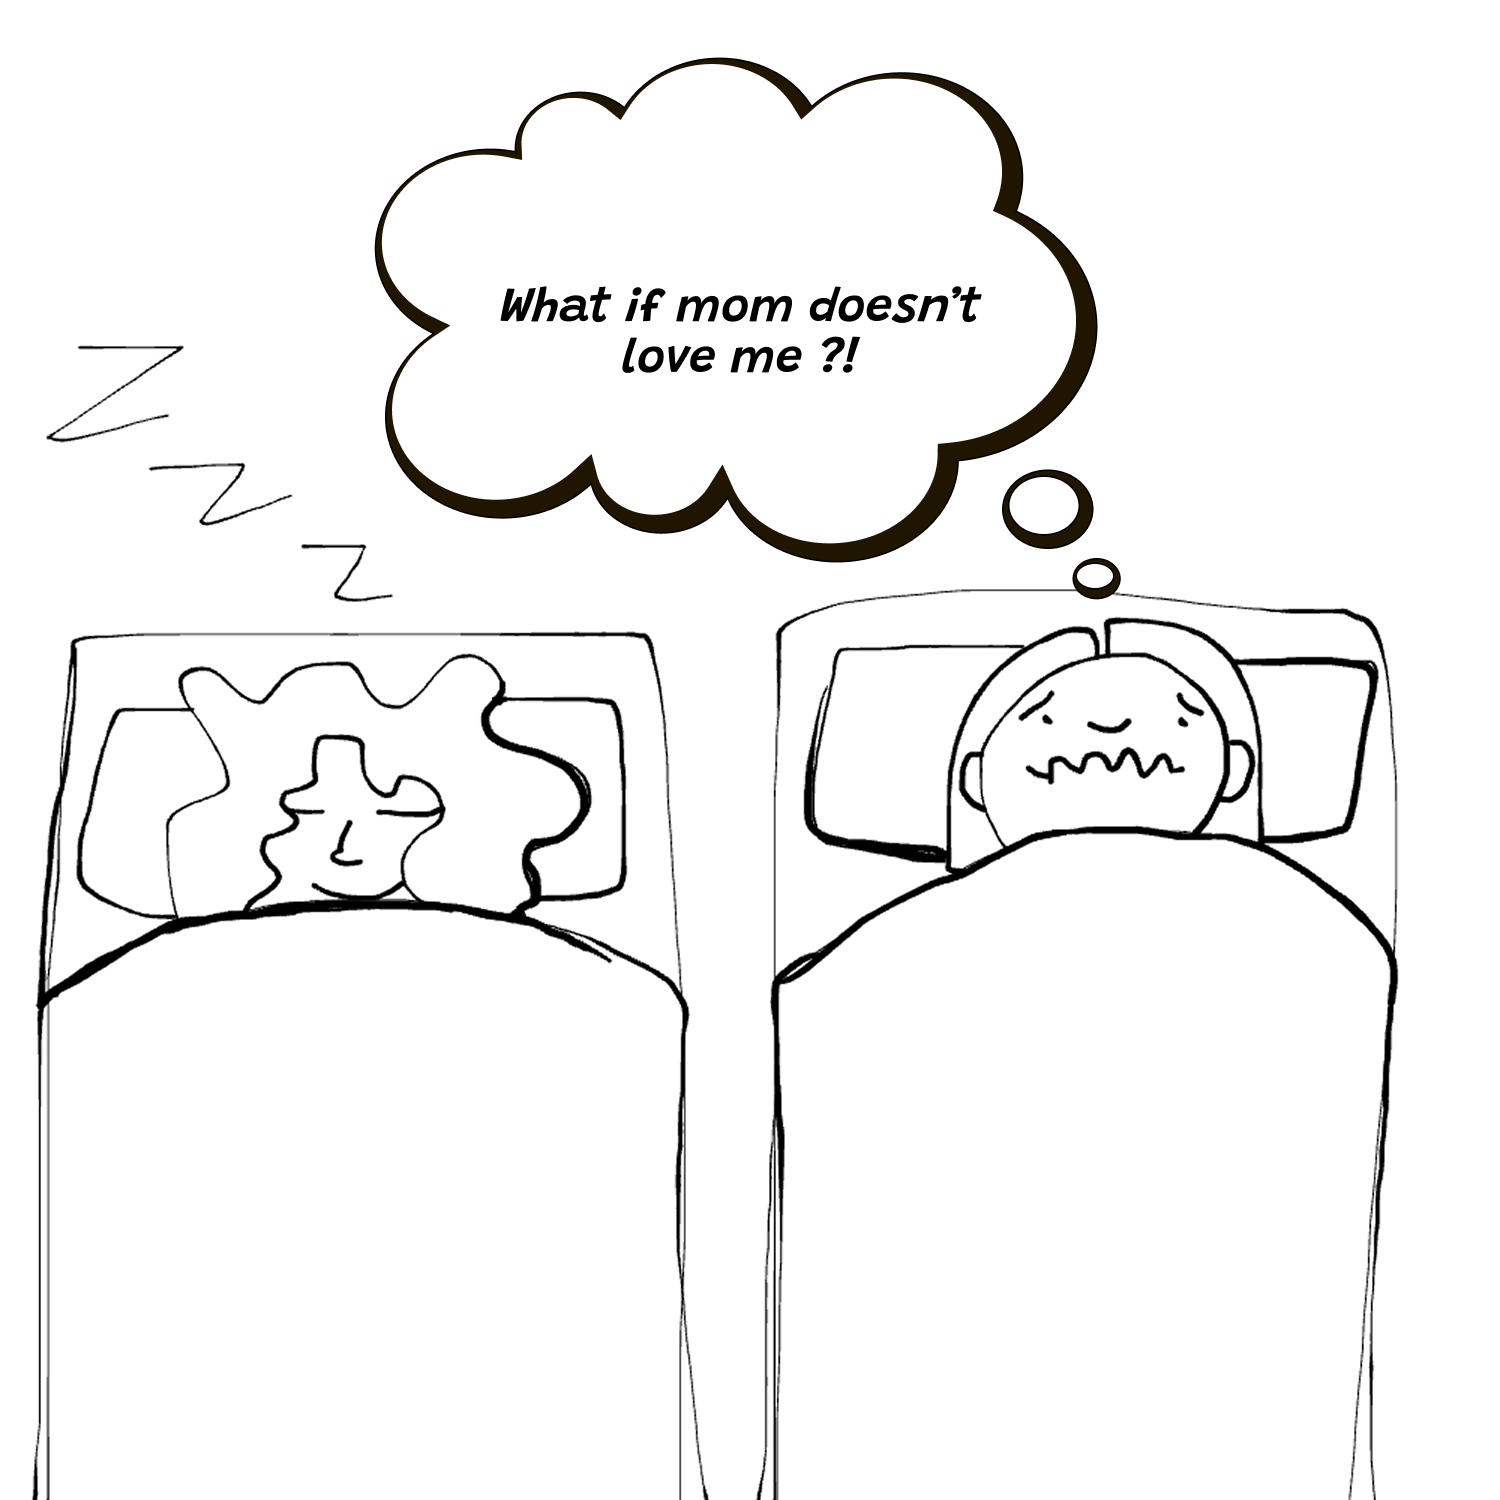
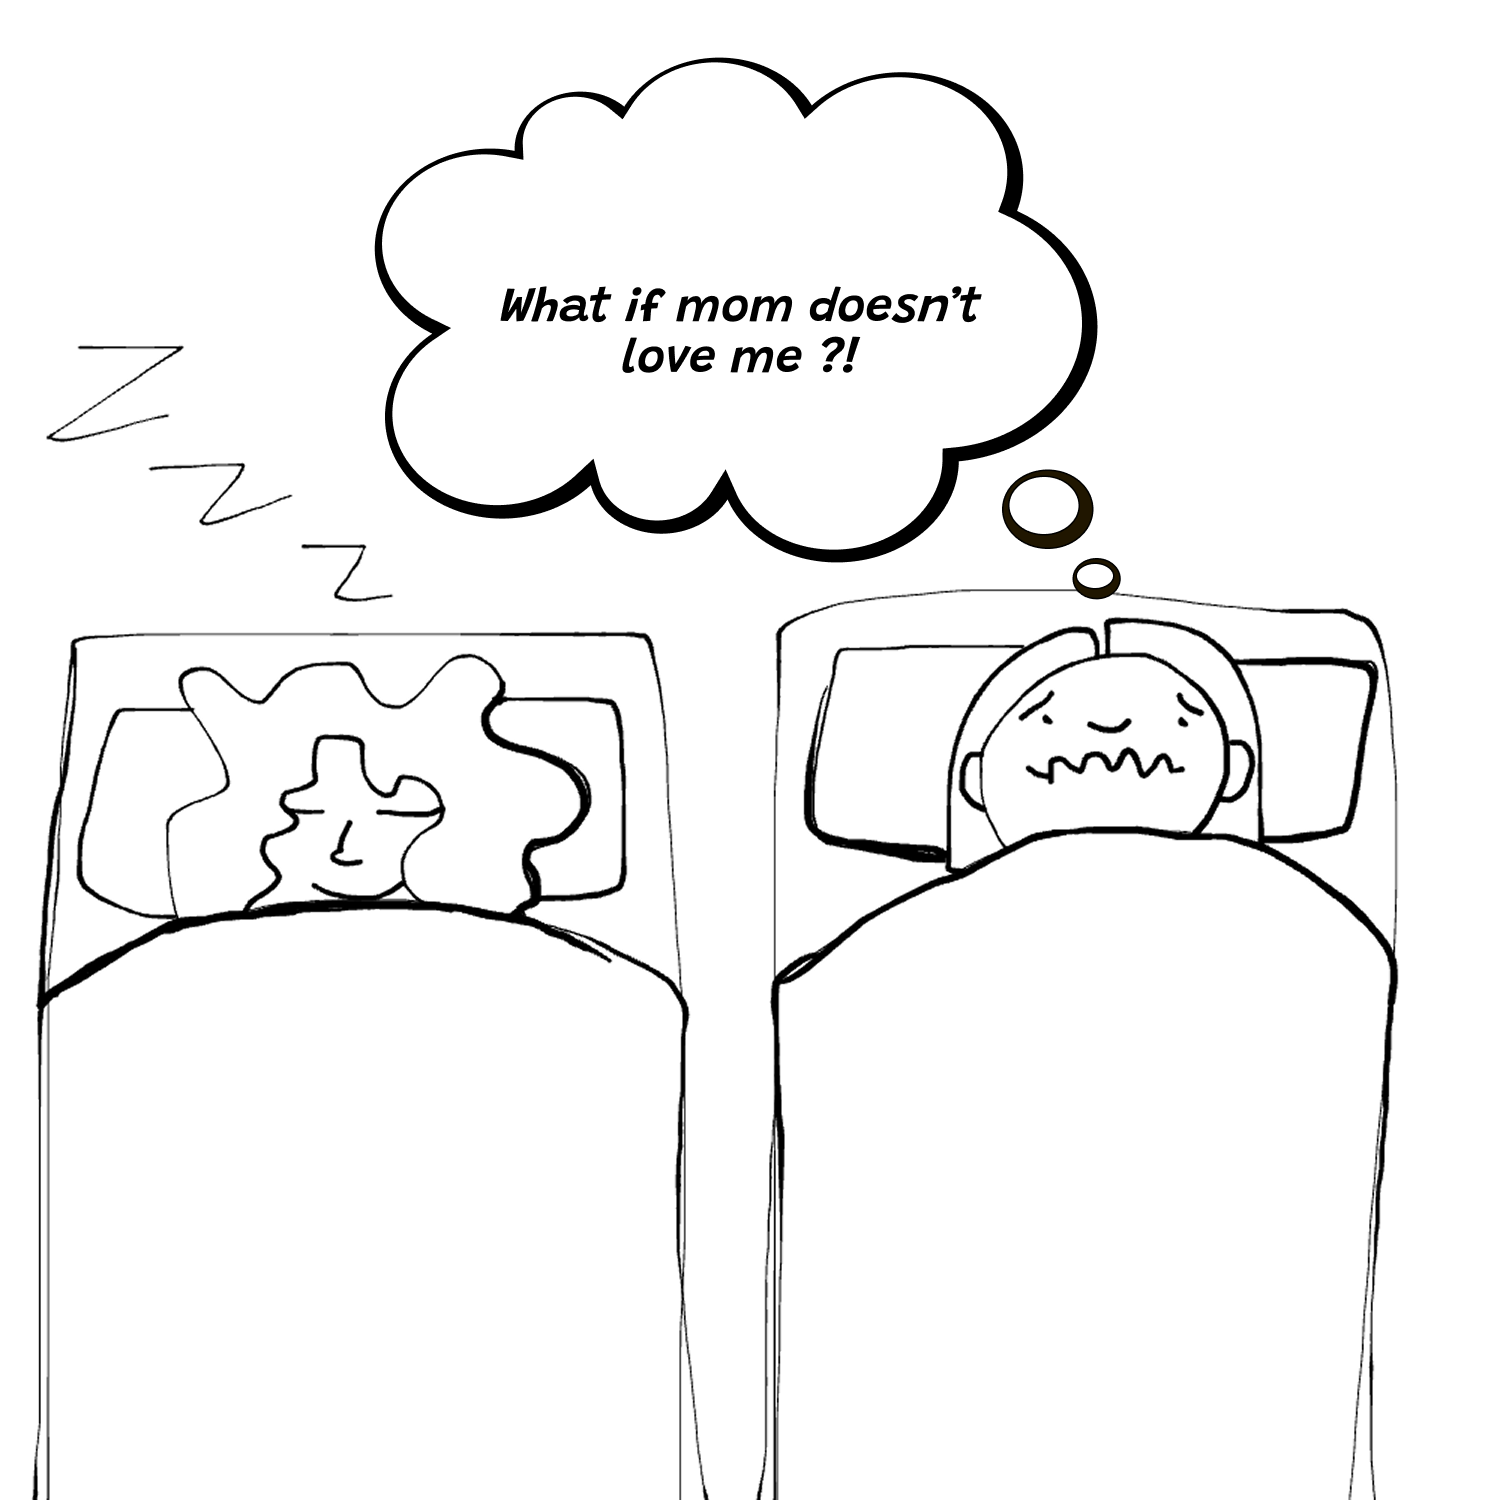
refine UI and art

diff --git a/src/components/UI/ThoughtReveal/ThoughtBubbleGlow.tsx b/src/components/UI/ThoughtReveal/ThoughtBubbleGlow.tsx
@@ -1,8 +1,8 @@
 interface Props {
-  hover: boolean;
+  strokeWidth: string;
 }
 
-const ThoughtBubbleGlow = ({ hover }: Props) => {
+const ThoughtBubbleGlow = ({ strokeWidth }: Props) => {
   return (
     <svg
       className="absolute w-full h-auto scale-106 top-[-2.5%] left-[0%]"
@@ -17,7 +17,7 @@ const ThoughtBubbleGlow = ({ hover }: Props) => {
           d="M498.731 189.034C496.748 156.414 476.01 129.134 446.651 114.201C448.934 106.671 449.991 98.7097 449.492 90.4938C446.892 47.7168 405.222 16.591 357.848 19.4703C337.654 20.6977 319.434 27.912 305.252 39.0011C290.826 19.7341 265.444 7.97345 237.571 9.66756C212.843 11.1705 191.383 22.944 178.467 40.1217C169.767 34.5395 158.902 31.562 147.353 32.2639C123.983 33.6843 104.574 49.9346 102.162 70.8183C96.7077 70.1297 91.0767 69.9144 85.3205 70.2642C41.5944 72.9218 6.79459 106.116 9.202 145.726C10.5762 168.336 23.8707 187.452 43.0426 199.14C25.3894 213.697 14.616 234.804 16.018 257.871C18.5354 299.291 58.8715 329.392 104.684 326.607C124.096 325.427 141.64 318.537 155.326 307.912C163.904 326.356 185.018 338.178 208.242 336.767C224.171 335.799 238.217 328.814 247.552 318.344C262.34 342.706 293.103 357.94 327.001 355.88C369.327 353.307 403.755 324.372 406.66 288.16C460.581 280.864 501.742 238.582 498.731 189.034Z"
           stroke="#FFDD53"
           stroke-opacity="0.7"
-          stroke-width={hover ? "15" : "10"}
+          stroke-width={strokeWidth}
         />
       </g>
       <defs>
@@ -38,7 +38,7 @@ const ThoughtBubbleGlow = ({ hover }: Props) => {
             result="shape"
           />
           <feGaussianBlur
-            stdDeviation="2"
+            stdDeviation="3"
             result="effect1_foregroundBlur_1990_1444"
           />
         </filter>

diff --git a/src/components/UI/ThoughtReveal/ScratchReveal.tsx b/src/components/UI/ThoughtReveal/ScratchReveal.tsx
@@ -35,6 +35,13 @@ const ScratchReveal = () => {
   }, [size]); // Runs whenever `size` changes
 
   const [isHovered, setIsHovered] = useState(false); // State to track whether the mouse is hovering over the card
+  const [isDragging, setIsDragging] = useState(false); // State to track mouse is being dragged to reveal the card
+  const [strokeWidth, setStrokeWidth] = useState("10"); // State to track strokeWidth of the glow
+
+  useEffect(() => {
+    isHovered || isDragging ? setStrokeWidth("15") : strokeWidth;
+    !isDragging && !isHovered ? setStrokeWidth("10") : strokeWidth;
+  });
 
   // turn to next page when revealed
   useEffect(() => {
@@ -50,13 +57,15 @@ const ScratchReveal = () => {
     <div
       ref={containerRef}
       onMouseEnter={() => setIsHovered(true)}
+      onMouseDown={() => setIsDragging(true)}
+      onMouseUp={() => setIsDragging(false)}
       onMouseLeave={() => setIsHovered(false)}
       //   onDragStart={() => toggleBack(false)}
       //   onDragEnd={() => toggleBack(true)}
       className="w-1/2 h-1/3 absolute 
         top-[3.5%] left-[24%] scale-95 cursor-pointer"
     >
-      <ThoughtBubbleGlow hover={isHovered} />
+      <ThoughtBubbleGlow strokeWidth={strokeWidth} />
 
       <ScratchCard
         key={`${size.width}-${size.height}`}
